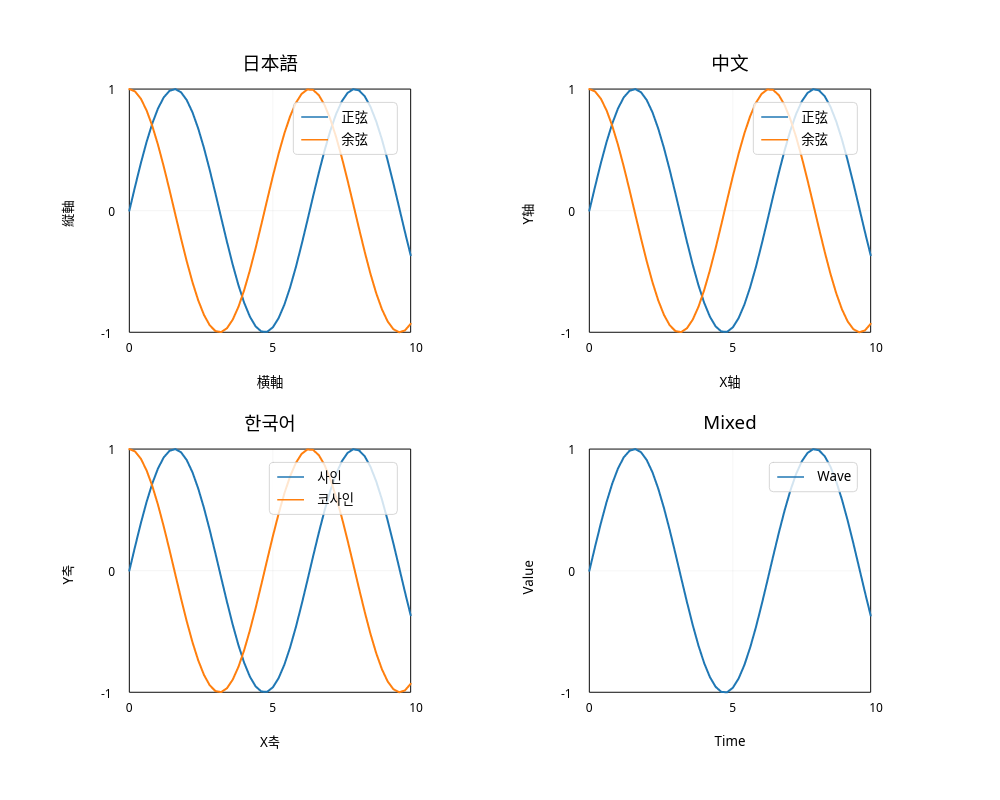
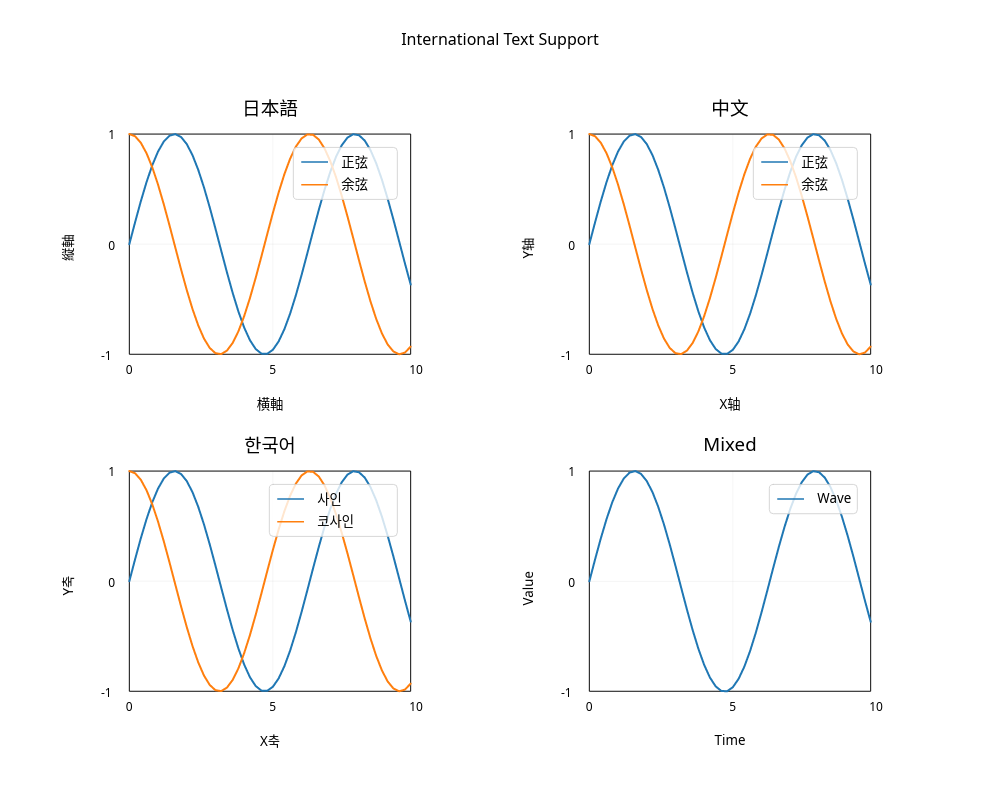
fix(subplot): reserve space for suptitle to prevent overlap
The suptitle was being overwritten by subplots because the grid
calculation didn't account for suptitle space. This fix:

- Add top_offset parameter to GridSpec::subplot_rect()
- Calculate 45px offset when suptitle is present (30px position + 15px padding)
- Subplots now start below the suptitle area
- Add test for subplot_rect with suptitle offset

Fixes the "strikethrough" visual bug where subplots were rendering
over the suptitle text.

diff --git a/src/core/subplot.rs b/src/core/subplot.rs
@@ -90,12 +90,20 @@ impl GridSpec {
     }
 
     /// Calculate subplot rectangle for given index
+    ///
+    /// # Arguments
+    /// * `index` - Subplot index (row * cols + col)
+    /// * `figure_width` - Total figure width in pixels
+    /// * `figure_height` - Total figure height in pixels
+    /// * `margin` - Margin as fraction of figure size
+    /// * `top_offset` - Additional top offset for suptitle (in pixels)
     pub fn subplot_rect(
         &self,
         index: usize,
         figure_width: u32,
         figure_height: u32,
         margin: f32,
+        top_offset: f32,
     ) -> Result<Rect> {
         if index >= self.total_subplots() {
             return Err(PlottingError::InvalidInput(format!(
@@ -111,7 +119,8 @@ impl GridSpec {
         // Calculate available space after margins
         let margin_px = margin * figure_width.min(figure_height) as f32;
         let available_width = figure_width as f32 - 2.0 * margin_px;
-        let available_height = figure_height as f32 - 2.0 * margin_px;
+        // Subtract top_offset from available height to reserve space for suptitle
+        let available_height = figure_height as f32 - 2.0 * margin_px - top_offset;
 
         // Calculate subplot dimensions with spacing
         let subplot_width = available_width / self.cols as f32;
@@ -123,9 +132,9 @@ impl GridSpec {
         let plot_width = subplot_width - spacing_x;
         let plot_height = subplot_height - spacing_y;
 
-        // Calculate subplot position
+        // Calculate subplot position (add top_offset to y position)
         let x = margin_px + col as f32 * subplot_width + spacing_x / 2.0;
-        let y = margin_px + row as f32 * subplot_height + spacing_y / 2.0;
+        let y = margin_px + top_offset + row as f32 * subplot_height + spacing_y / 2.0;
 
         Rect::from_xywh(x, y, plot_width, plot_height).ok_or_else(|| {
             PlottingError::InvalidInput("Invalid subplot dimensions calculated".to_string())
@@ -335,6 +344,13 @@ impl SubplotFigure {
         let theme = crate::render::Theme::default();
         let mut renderer = SkiaRenderer::new(self.width, self.height, theme)?;
 
+        // Calculate suptitle height to reserve space for it
+        let suptitle_height = if self.suptitle.is_some() {
+            45.0_f32 // Reserve space for title (30px position + 15px padding)
+        } else {
+            0.0_f32
+        };
+
         // Render figure title if present
         // Use fixed pixel sizes since main renderer uses figure dimensions (not DPI-scaled)
         if let Some(title) = &self.suptitle {
@@ -353,10 +369,14 @@ impl SubplotFigure {
         // Render each subplot
         for (index, plot_opt) in self.plots.iter().enumerate() {
             if let Some(plot) = plot_opt {
-                // Calculate subplot area
-                let subplot_rect =
-                    self.grid
-                        .subplot_rect(index, self.width, self.height, self.margin)?;
+                // Calculate subplot area with suptitle offset
+                let subplot_rect = self.grid.subplot_rect(
+                    index,
+                    self.width,
+                    self.height,
+                    self.margin,
+                    suptitle_height,
+                )?;
 
                 // Calculate typography scale factor based on subplot size and DPI
                 // Subplots are rendered to fixed-size canvases, so we need to:
@@ -486,9 +506,10 @@ mod tests {
     fn test_subplot_rect_calculation() {
         let grid = GridSpec::new(2, 2);
         let margin = 0.1;
+        let top_offset = 0.0; // No suptitle
 
         // Test first subplot (top-left)
-        let rect = grid.subplot_rect(0, 800, 600, margin).unwrap();
+        let rect = grid.subplot_rect(0, 800, 600, margin, top_offset).unwrap();
         // With 0.1 margin on 600px min dimension: margin_px = 60px
         // With 0.1 spacing: x = 60 + spacing/2 ≈ 77px
         assert!(rect.left() >= 60.0); // Should be past margin
@@ -497,9 +518,20 @@ mod tests {
         assert!(rect.height() > 0.0);
 
         // Test last subplot (bottom-right)
-        let rect = grid.subplot_rect(3, 800, 600, margin).unwrap();
+        let rect = grid.subplot_rect(3, 800, 600, margin, top_offset).unwrap();
         assert!(rect.right() <= 740.0); // Should fit within margins (800 - 60)
         assert!(rect.bottom() <= 540.0); // Should fit within margins (600 - 60)
+    }
+
+    #[test]
+    fn test_subplot_rect_with_suptitle_offset() {
+        let grid = GridSpec::new(2, 2);
+        let margin = 0.1;
+        let top_offset = 45.0; // With suptitle
+
+        // Test first subplot with suptitle - should start below the suptitle area
+        let rect = grid.subplot_rect(0, 800, 600, margin, top_offset).unwrap();
+        assert!(rect.top() >= 60.0 + top_offset); // Should be past margin + suptitle
     }
 
     #[test]

diff --git a/examples/doc_international.rs b/examples/doc_international.rs
@@ -133,8 +133,9 @@ fn generate_multilang_comparison() -> Result<()> {
         .line(&x, &y_sin)
         .label("Wave");
 
-    // Create 2x2 subplot (suptitle has rendering bug, omitting for now)
+    // Create 2x2 subplot
     subplots(2, 2, 1000, 800)?
+        .suptitle("International Text Support")
         .subplot_at(0, plot_jp.into())?
         .subplot_at(1, plot_cn.into())?
         .subplot_at(2, plot_kr.into())?
